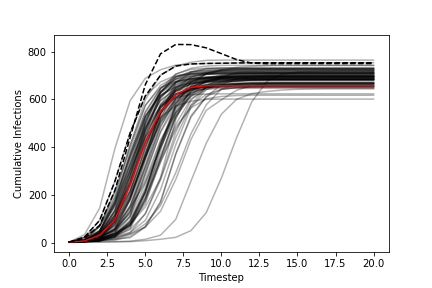
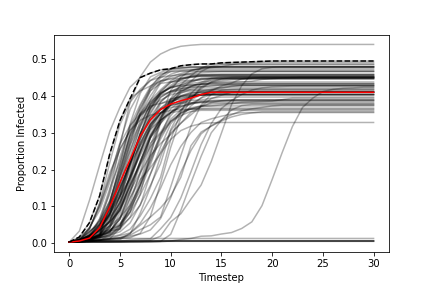
Tweaks to pandemic sim

diff --git a/examples/pandemic/pandemic_example_sim.py b/examples/pandemic/pandemic_example_sim.py
@@ -51,7 +51,7 @@ def infect_node(nodes_status, t, node):
 ### Test ###
 import matplotlib.pyplot as plt
 
-nnodes = 10000
+nnodes = 50000
 m0 = 2
 p = 0.30
 nsteps = 30
@@ -62,15 +62,16 @@ seed = 129251
 (social_graph, nodes_status, infection_graph) = pandemic_example_sim(nnodes=nnodes, m0=m0, p=p, nsteps=nsteps, \
                                                                     n_infected_init=n_infected_init, open_scenario=open_scenario, seed=seed)
 
-# Plot social graph (diabled by default since it freezes for large nnodes)
-#from matplotlib import colors
-#cmap = colors.ListedColormap(['silver', 'red', 'black'])
-#pos = nx.spring_layout(social_graph)
-#fig = plt.figure()
-#nodes_status_final = np.array(nodes_status[-1,:])
-#nx.draw(social_graph, node_color=nodes_status_final, cmap=cmap, pos=pos, vmin=0, vmax=2)
-#nx.draw(infection_graph, node_color=nodes_status_final[list(infection_graph.nodes)], cmap=cmap, pos=pos, vmin=0, vmax=2)
-#plt.show()
+# # Plot social graph (diabled by default since it freezes for large nnodes)
+# from matplotlib import colors
+# cmap = colors.ListedColormap(['silver', 'red', 'black'])
+# pos = nx.spring_layout(social_graph)
+# fig = plt.figure()
+# nodes_status_final = np.array(nodes_status[-1,:])
+# nx.draw(social_graph, node_color=nodes_status_final, cmap=cmap, pos=pos, vmin=0, vmax=2)
+# nx.draw(infection_graph, node_color=nodes_status_final[list(infection_graph.nodes)], cmap=cmap, pos=pos, vmin=0, vmax=2)
+# plt.savefig('network_graph.png')
+# plt.show()
 
 # Show distribution of infections vs degree (should be linear in log-log)
 superspreader_degree = []
@@ -95,6 +96,7 @@ plt.gca().set_xscale('log')
 plt.gca().set_yscale('log')
 plt.ylabel('Number of Nodes')
 plt.xlabel('Degree of Node')
+plt.savefig('scale_free_connectivity.png')
 
 # Show distribution of node degree (should be linear in log-log)
 from collections import Counter
@@ -116,4 +118,5 @@ plt.plot(range(nsteps+1), nR, color='black')
 plt.legend(['S','I','R'])
 plt.xlabel('Timestep')
 plt.ylabel('n')
+plt.savefig('sir_curve.png')
 #'''

diff --git a/examples/pandemic/pandemic_example_run_script.py b/examples/pandemic/pandemic_example_run_script.py
@@ -16,8 +16,8 @@ k = 2
 p = 0.95
 c = 0.90
 bound='1-sided'
-ndraws = order_stat_TI_n(k=k, p=p, c=c, bound=bound) # 82
-ndraws = ceil(ndraws/10)*10
+ndraws = order_stat_TI_n(k=k, p=p, c=c, bound=bound)  # 77
+ndraws = ceil(ndraws/10)*10  # 80
 seed=12362398
 
 def pandemic_example_run_script():
@@ -28,15 +28,14 @@ def pandemic_example_run_script():
     
     sim.runSim()
     
-    sim.mcoutvars['Cumulative Infections'].addVarStat(stattype='sigmaP', statkwargs={'sig':pct2sig(p), 'bound':bound})
-    sim.mcoutvars['Cumulative Infections'].addVarStat(stattype='orderstatTI', statkwargs={'p':p, 'c':c, 'bound':bound})
+    sim.mcoutvars['Proportion Infected'].addVarStat(stattype='orderstatTI', statkwargs={'p':p, 'c':c, 'bound':bound})
 
     mc_plot(sim.mcoutvars['Timestep'], sim.mcoutvars['Superspreader Degree'], highlight_cases=0)
     mc_plot(sim.mcoutvars['Max Superspreader Degree'], highlight_cases=0)
     mc_plot(sim.mcoutvars['Herd Immunity Threshold'], highlight_cases=0)
     
     # import matplotlib.pyplot as plt
-    mc_plot(sim.mcoutvars['Timestep'], sim.mcoutvars['Cumulative Infections'], highlight_cases=0)
+    mc_plot(sim.mcoutvars['Timestep'], sim.mcoutvars['Proportion Infected'], highlight_cases=0)
     # plt.savefig('cum_infections_vs_time.png')
     mc_multi_plot(sim.mcinvars['Probability of Infection'], sim.mcoutvars['Herd Immunity Threshold'], highlight_cases=0)
     # plt.savefig('p_infection_vs_herd_immunity.png')

diff --git a/examples/pandemic/pandemic_example_preprocess.py b/examples/pandemic/pandemic_example_preprocess.py
@@ -1,8 +1,8 @@
 def pandemic_example_preprocess(mccase):
     nnodes = 1000         # total number of nodes
-    m0 = 3                # m0: max number of connections made by each new node
+    m0 = 2                # m0: max number of connections made by each new node
     p = mccase.mcinvals['Probability of Infection'].val,  # p: the probability a node becomes infected if it shares an edge with an infected node
-    nsteps = 20           # number of timesteps to run the simulation for
+    nsteps = 30           # number of timesteps to run the simulation for
     n_infected_init = 3   # n_infected_init: number of nodes infected at the first timestep
     open_scenario = True  # open_scenario: if True, a random node will be attempt to be infected every timestep with probability p
     seed = mccase.seed    # seed: random seed for the run

diff --git a/examples/pandemic/pandemic_example_postprocess.py b/examples/pandemic/pandemic_example_postprocess.py
@@ -15,8 +15,9 @@ def pandemic_example_postprocess(mccase, social_graph, nodes_status, infection_g
     mccase.addOutVal('Number Recovered', nR)
     
     mccase.addOutVal('Cumulative Infections', nR + nI)
+    mccase.addOutVal('Proportion Infected', (nR + nI)/nnodes)
     
-    herd_immunity_threshold = nR[-1]/nnodes
+    herd_immunity_threshold = (nR[-1] + nI[-1])/nnodes
     mccase.addOutVal('Herd Immunity Threshold', herd_immunity_threshold)
     
     superspreader_degree = []

diff --git a/examples/pandemic/README.md b/examples/pandemic/README.md
@@ -6,8 +6,13 @@ Specifically, it implements a SIR model onto a scale-free undirected network,
 in an attempt to replicate the "B+" scenario in the following paper:    
 [Szabó, Gyula M. "Propagation and mitigation of epidemics in a scale-free network." arXiv preprint arXiv:2004.00067 (2020).](https://arxiv.org/abs/2004.00067)
 
-The inputs to the simulation are not randomized, but the graph itself, the 
-starting infected nodes, and the odds of infection ocurring along an edge at 
-every timestep are. 
+The probability of infection along each edge is randomized in the range 
+[0.28, 0.32], as is the graph itself, the starting infected nodes, and the odds 
+of infection ocurring along an edge at every timestep. 
 
-See more on the Barabási–Albert network model [on Wikipedia](https://en.wikipedia.org/wiki/Barabási–Albert_model).
+Read more about the Barabási–Albert scale free network model [on Wikipedia](https://en.wikipedia.org/wiki/Barabási–Albert_model).
+
+<p float="left" align="center">
+<img width="440" height="300" src="./network_graph.png">  
+<img width="440" height="300" src="./cum_infections_vs_time.png">
+</p>

diff --git a/README.md b/README.md
@@ -35,7 +35,7 @@ might be encountered are provided.
     - [election](examples/election/) (TODO)
     - [evidence_based_scheduling](examples/evidence_based_scheduling/) (TODO)
     - [integration](examples/integration/) (TODO)
-    - [pandemic](examples/pandemic/) (TODO)
+    - [pandemic](examples/pandemic/)
     - [rocket](examples/rocket/)
 * [PyMonteCarlo](PyMonteCarlo/)
 * [templates](templates/)
